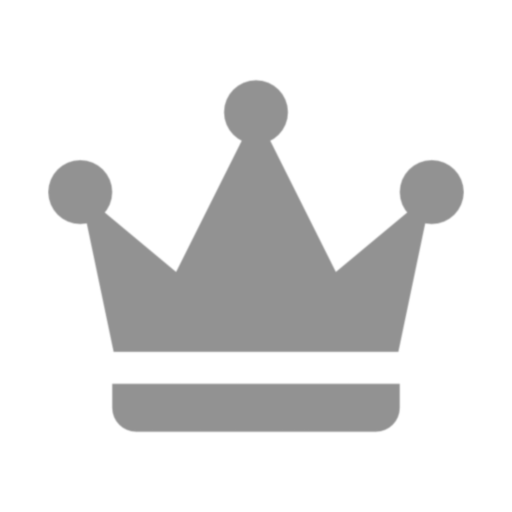
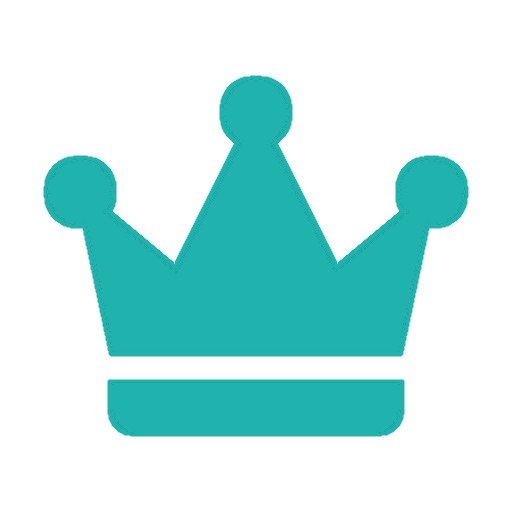
modified functions for game and style

Changed region(s): [[0.0625, 0.125, 0.9375, 0.875]]

diff --git a/client/src/components/style/gamePage.css b/client/src/components/style/gamePage.css
@@ -8,9 +8,6 @@
 
     width: 100%;
     height: 100%;
-
-    background: center / contain linear-gradient(130deg, rgba(252, 189, 153, 0.6), rgba(127, 209, 186, 0.6));
-    filter: blur(15px);
 }
 
 /* Checkers board style */
@@ -26,7 +23,7 @@
     display: flex;
     flex-wrap: wrap;
     
-    border: solid slategrey;
+    border: solid #20B2AD;
 }
 
 .cell {
@@ -39,15 +36,15 @@
 }
 
 .white {
-    background-color: whitesmoke;
+    background-color: white;
 }
 
 .black {
-    background-color: slategrey;
+    background-color: #20B2AD;
 }
 
 .selected {
-    background-color: brown;
+    background-color: #FF8B2E;
 }
 
 .checker {
@@ -58,17 +55,17 @@
 }
 
 .whiteChecker {
-    background-color: whitesmoke;
+    background-color: white;
 }
 
 
 .blackChecker {
-    background-color: #1c1c1c;
+    background-color: #065F5C;
 }
 
 .lady {
     background-size: cover;
-    background-image: url('./crown_icon.PNG');
+    background-image: url('./crown_icon.png');
 }
 
 /* User info style */
@@ -96,9 +93,9 @@
 }
 
 .currentPlayer {
-    color: brown;
+    color: #FF8B2E;
 }
 
 .waitingPlayer {
-    color: darkgrey;
+    color: #FFCFA8;
 }

diff --git a/client/src/components/style/login&registrationPages.css b/client/src/components/style/login&registrationPages.css
@@ -9,8 +9,8 @@
     width: 100%;
     height: 100%;
 
-    background: center / contain linear-gradient(130deg, rgba(252, 189, 153, 0.6), rgba(127, 209, 186, 0.6));
-    filter: blur(15px);
+    background: linear-gradient(40deg, #FFCFA8, #96E4E1);
+    filter: blur(25px);
 }
 
 form.modalWindow {
@@ -20,7 +20,7 @@ form.modalWindow {
 
     width: 380px;
 
-    background-color: whitesmoke;
+    background-color: white;
     border-radius: 10px;
 }
 
@@ -48,9 +48,9 @@ form.login {
     width: 260px;
     height: 60px;
 
-    background-color: whitesmoke;
+    background-color: white;
 
-    border: 2px solid rgba(127, 209, 186, 0.6);
+    border: 2px solid #96E4E1;
     border-radius: 5px;
 
     text-indent: 10px;
@@ -90,7 +90,7 @@ input :focus {
     font-family: system-ui;
     font-size: 15px;
     font-weight: bold;
-    color: whitesmoke;
+    color: white;
 }
 
 .registrationLink {

diff --git a/client/src/components/pages/GamePage.js b/client/src/components/pages/GamePage.js
@@ -58,6 +58,7 @@ const GamePage = () => {
     }
 
     const choiceCellsForMove = (x, y, cellIsEmpty, color) => {
+        store.checkAuth();
         if (cellIsEmpty === false) 
         {
             if (game.currentPlayer === 'white player')
@@ -85,7 +86,6 @@ const GamePage = () => {
     }
 
     const choiceCellWithChecker = (currentPlayersCheckers, waitingPlayersCheckers, x, y) => {
-        console.log(multipleTake);
         if (playerCanTakeEnemyCheckers(currentPlayersCheckers, waitingPlayersCheckers)
             && multipleTake === false)
         {

diff --git a/server/service/token-service.js b/server/service/token-service.js
@@ -3,7 +3,7 @@ const jwt = require('jsonwebtoken');
 
 class TokenService {
     generateTokens(payload) {
-        const accessToken = jwt.sign(payload, process.env.JWT_ACCESS_SECRET, {expiresIn: 5 * 60})
+        const accessToken = jwt.sign(payload, process.env.JWT_ACCESS_SECRET, {expiresIn: 45 * 60})
         const refreshToken = jwt.sign(payload, process.env.JWT_REFRESH_SECRET, {expiresIn: 45 * 60})
         return {
             accessToken,

diff --git a/server/components/functions/checkIfPlayerCanTakeCheckers.js b/server/components/functions/checkIfPlayerCanTakeCheckers.js
@@ -1,4 +1,4 @@
-const Player = require('../Classes/Player');
+const Player = require('../classes/Player');
 const {checkerCanTakeEnemyChecker} = require('./checkIfCheckerCanTakeChecker');
 
 playerCanTakeEnemyCheckers = (currentPlayer, waitingPlayer) => {

diff --git a/server/components/functions/checkIfPlayerCanMoveOrTakeChecker.js b/server/components/functions/checkIfPlayerCanMoveOrTakeChecker.js
@@ -1,4 +1,4 @@
-const Player = require('../Classes/Player');
+const Player = require('../classes/Player');
 const {playerCanTakeEnemyCheckers} = require('./checkIfPlayerCanTakeCheckers');
 const {checkIfCellIsEmpty} = require('./checkIfCellIsEmpty');
 

diff --git a/server/components/functions/checkIfCheckerCanTakeChecker.js b/server/components/functions/checkIfCheckerCanTakeChecker.js
@@ -1,4 +1,4 @@
-const Player = require('../Classes/Player');
+const Player = require('../classes/Player');
 const {checkIfCellIsEmpty} = require('./checkIfCellIsEmpty');
 
 checkerCanTakeEnemyChecker = (currentPlayer, waitingPlayer, x, y) => {

diff --git a/server/components/functions/moveFunctions.js b/server/components/functions/moveFunctions.js
@@ -1,4 +1,4 @@
-const Player = require('../Classes/Player');
+const Player = require('../classes/Player');
 const {checkIfCellIsEmpty} = require('./checkIfCellIsEmpty');
 
 moveChecker = (currentPlayer, waitingPlayer, x1, y1, x2, y2) => {

diff --git a/server/components/functions/takeFunctions.js b/server/components/functions/takeFunctions.js
@@ -1,4 +1,4 @@
-const Player = require('../Classes/Player');
+const Player = require('../classes/Player');
 const {checkIfCellIsEmpty} = require('./checkIfCellIsEmpty');
 
 takeChecker = (currentPlayer, waitingPlayer, x1, y1, x2, y2) => {

diff --git a/server/components/functions/checkIfCellIsEmpty.js b/server/components/functions/checkIfCellIsEmpty.js
@@ -1,4 +1,4 @@
-const Player = require('../Classes/Player');
+const Player = require('../classes/Player');
 
 checkIfCellIsEmpty = (firstPlayer, secondPlayer, x, y) => {
     if (x >= 1 && x <= 8 && y >= 1 && y <= 8

diff --git a/server/components/functions/addCheckersToPlayers.js b/server/components/functions/addCheckersToPlayers.js
@@ -1,4 +1,4 @@
-const Player = require('../Classes/Player');
+const Player = require('../classes/Player');
 
 addCheckersToPlayers = (whitePlayer, blackPlayer) => {
     for (let i = 1; i < 4; i++) {

diff --git a/server/components/functions/createBoard.js b/server/components/functions/createBoard.js
@@ -1,4 +1,4 @@
-const Player = require('../Classes/Player');
+const Player = require('../classes/Player');
 
 createBoard = (whitePlayer, blackPlayer) => {
     let board = [];
